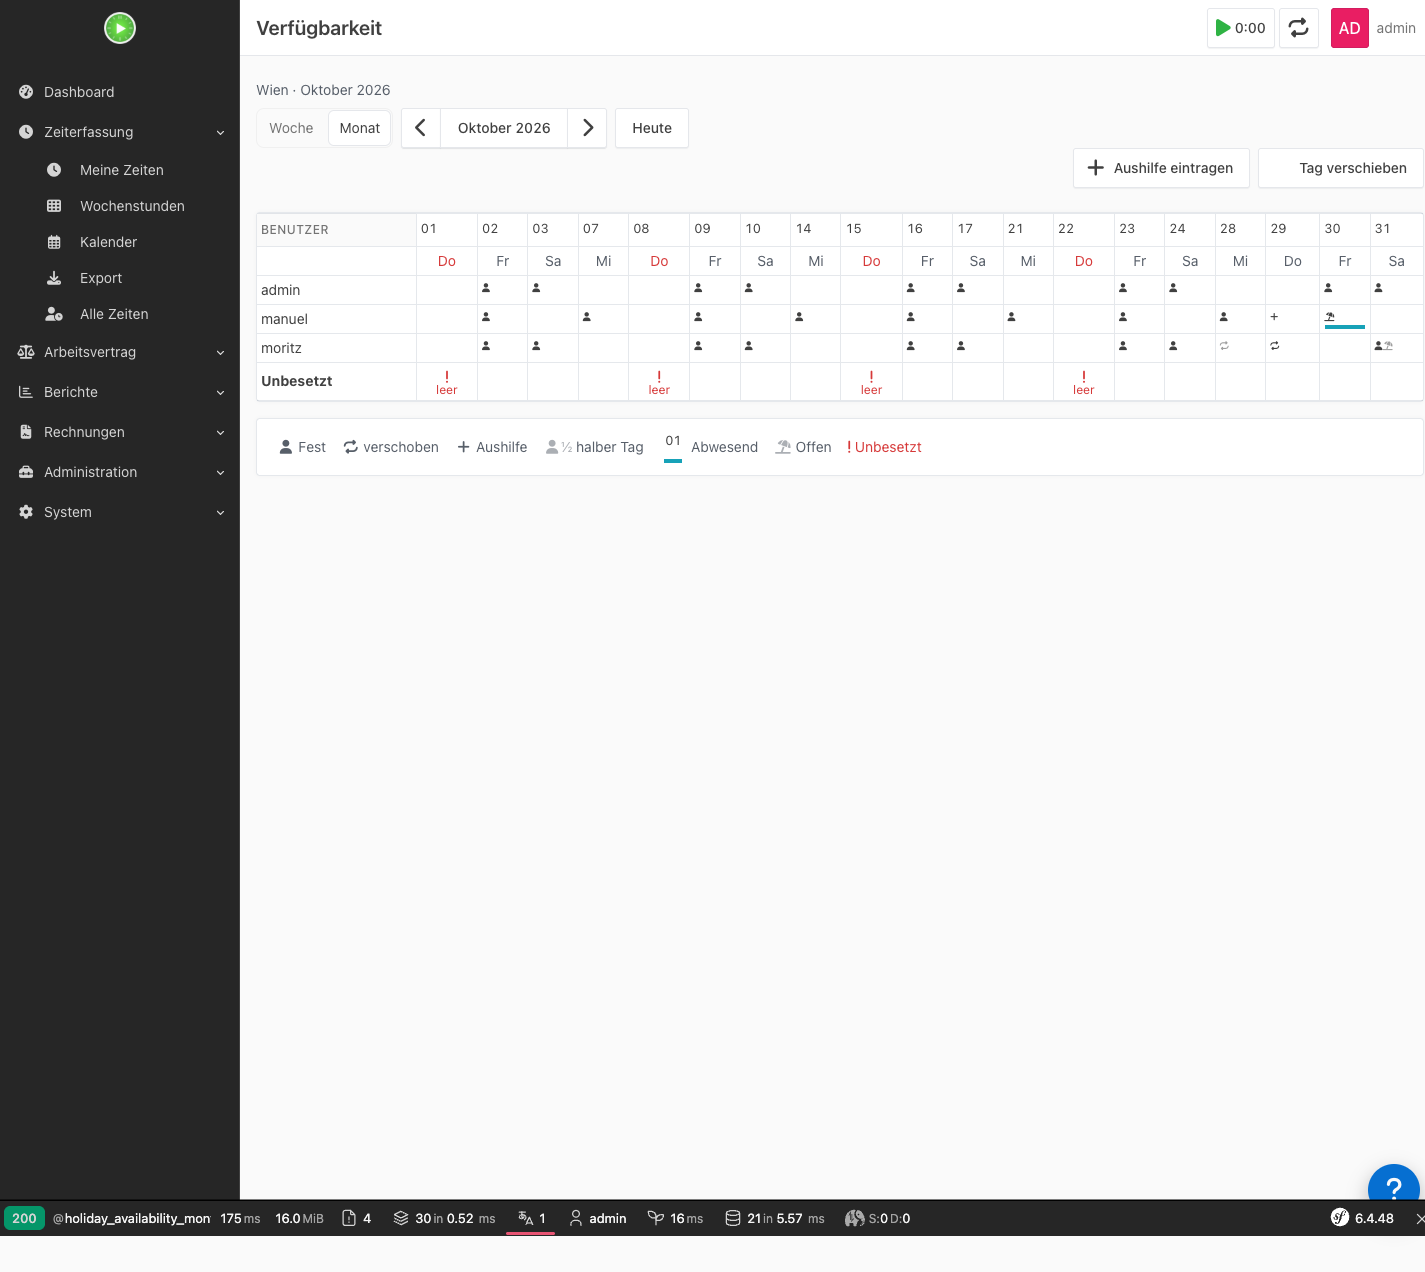
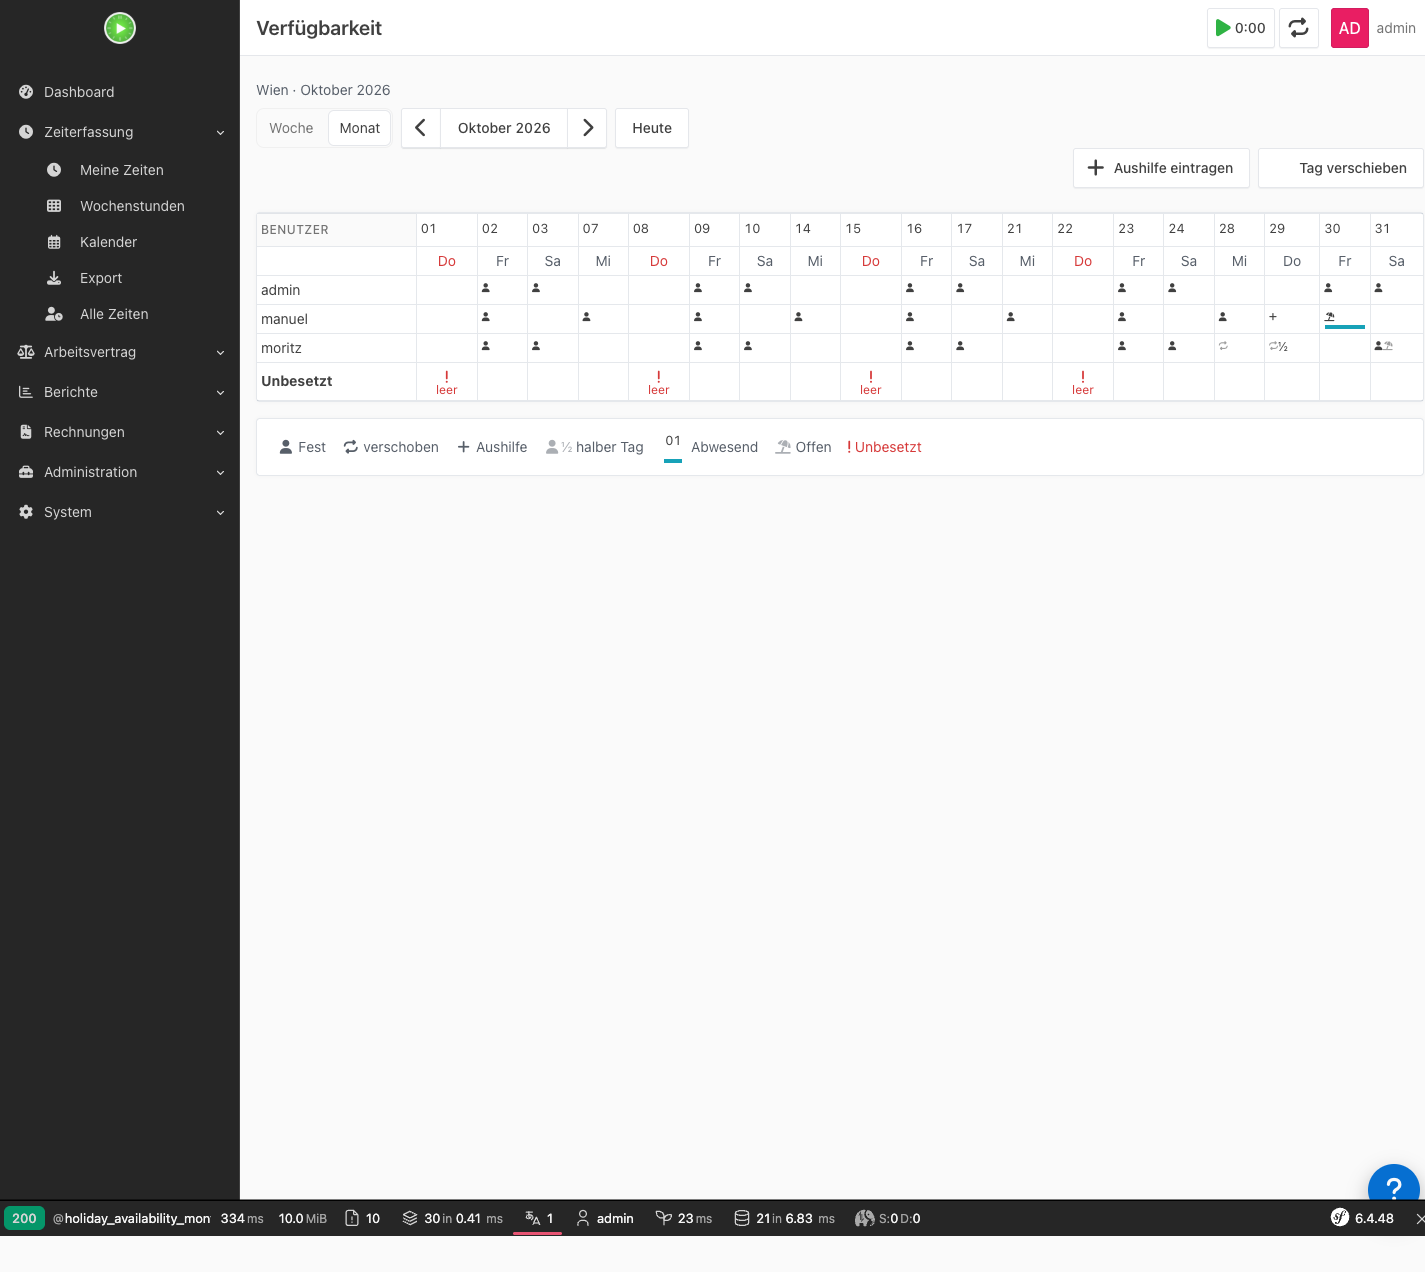
Monatszelle: halber Tag und offene Einträge
Ein halber Tag auf dem Zieltag einer Verschiebung zeigte die Zelle
als ganz anwesend. Die Zelle zeigt jetzt Symbol und ½ wie bei
festen Tagen. Offene Anträge erscheinen mit eigenem Symbol, und
bei Abwesenheit plus Verschiebung am selben Tag nennt die Zelle
beide.

Changed region(s): [[0.1544, 0.9505, 0.6484, 0.9811], [0.8646, 0.184, 0.8954, 0.2146], [0.7102, 0.184, 0.7411, 0.2146]]

diff --git a/Controller/AvailabilityController.php b/Controller/AvailabilityController.php
@@ -202,7 +202,7 @@ class AvailabilityController extends AbstractController
      *
      * @param User[] $users
      * @param array<string, AvailabilityDay> $openDays
-     * @return array<int, array{user: User, cells: array<string, ?array{kind: string, icon: string, label: string, pending: ?string}>}>
+     * @return array<int, array{user: User, cells: array<string, ?array{kind: string, icon: string, label: string, pending: ?string[], pending_icon?: ?string}>}>
      */
     private function memberRows(array $users, array $openDays): array
     {
@@ -222,45 +222,52 @@ class AvailabilityController extends AbstractController
     /**
      * 'pending' carries the type label of an open request on a day the person is present anyway.
      *
-     * @return array{kind: string, icon: string, label: string, pending: ?string}|null
+     * @return array{kind: string, icon: string, label: string, pending: ?string[], pending_icon?: ?string}|null
      */
     private function cell(User $user, AvailabilityDay $day): ?array
     {
         foreach ($day->absent as $item) {
             if ($item['user'] === $user) {
-                return ['kind' => self::CELL_ABSENT, 'icon' => $item['absence']->getType()->icon(), 'label' => $item['absence']->getType()->label(), 'pending' => null];
+                return ['kind' => self::CELL_ABSENT, 'icon' => $item['absence']->getType()->icon(), 'label' => $item['absence']->getType()->label(), 'pending' => null, 'pending_icon' => null];
             }
         }
-        $pending = null;
-        foreach ($day->pending as $item) {
-            if ($item['user'] === $user) {
-                $pending = isset($item['absence']) ? $item['absence']->getType()->label() : 'holiday.availability.pending_shift_cell';
-            }
-        }
-        foreach ($day->present as $entry) {
-            if ($entry->user !== $user) {
-                continue;
-            }
-            if ($entry->kind === PresenceKind::SHIFTED) {
-                return ['kind' => self::CELL_SHIFTED, 'icon' => 'repeat', 'label' => $entry->kind->label(), 'pending' => $pending];
-            }
-            if ($entry->kind === PresenceKind::EXTRA_SHIFT) {
-                return ['kind' => self::CELL_EXTRA, 'icon' => 'create', 'label' => $entry->kind->label(), 'pending' => $pending];
-            }
-
-            return $entry->halfDay
-                ? ['kind' => self::CELL_HALF, 'icon' => 'user', 'label' => 'holiday.availability.half_day', 'pending' => $pending]
-                : ['kind' => self::CELL_FIXED, 'icon' => 'user', 'label' => $entry->kind->label(), 'pending' => $pending];
-        }
+        // open items of this person (absence first); labels are translation keys
+        $open = [];
         foreach ($day->pending as $item) {
             if ($item['user'] !== $user) {
                 continue;
             }
-            if (isset($item['absence'])) {
-                return ['kind' => self::CELL_PENDING, 'icon' => $item['absence']->getType()->icon(), 'label' => $item['absence']->getType()->label(), 'pending' => null];
+            $open[isset($item['absence']) ? 'absence' : 'shift'] = isset($item['absence'])
+                ? ['label' => $item['absence']->getType()->label(), 'icon' => $item['absence']->getType()->icon()]
+                : ['label' => 'holiday.availability.pending_shift_cell', 'icon' => 'repeat'];
+        }
+        $open = array_merge(['absence' => null, 'shift' => null], $open);
+        $open = array_values(array_filter($open));
+        $pending = $open === [] ? null : array_column($open, 'label');
+        $pendingIcon = $open[0]['icon'] ?? null;
+
+        foreach ($day->present as $entry) {
+            if ($entry->user !== $user) {
+                continue;
+            }
+            $icon = match ($entry->kind) {
+                PresenceKind::SHIFTED => 'repeat',
+                PresenceKind::EXTRA_SHIFT => 'create',
+                PresenceKind::FIXED => 'user',
+            };
+            $kind = match ($entry->kind) {
+                PresenceKind::SHIFTED => self::CELL_SHIFTED,
+                PresenceKind::EXTRA_SHIFT => self::CELL_EXTRA,
+                PresenceKind::FIXED => self::CELL_FIXED,
+            };
+            if ($entry->halfDay) {
+                return ['kind' => self::CELL_HALF, 'icon' => $icon, 'label' => 'holiday.availability.half_day', 'pending' => $pending, 'pending_icon' => $pendingIcon];
             }
 
-            return ['kind' => self::CELL_PENDING, 'icon' => 'repeat', 'label' => 'holiday.availability.pending_shift_cell', 'pending' => null];
+            return ['kind' => $kind, 'icon' => $icon, 'label' => $entry->kind->label(), 'pending' => $pending, 'pending_icon' => $pendingIcon];
+        }
+        if ($open !== []) {
+            return ['kind' => self::CELL_PENDING, 'icon' => $pendingIcon, 'label' => $open[0]['label'], 'pending' => $pending, 'pending_icon' => null];
         }
 
         return null;

diff --git a/Tests/Service/AvailabilityCalculatorTest.php b/Tests/Service/AvailabilityCalculatorTest.php
@@ -12,6 +12,7 @@ use KimaiPlugin\HolidayBundle\Entity\Location;
 use KimaiPlugin\HolidayBundle\Entity\PublicHoliday;
 use KimaiPlugin\HolidayBundle\Entity\PublicHolidayGroup;
 use KimaiPlugin\HolidayBundle\Entity\WorkdayShift;
+use KimaiPlugin\HolidayBundle\Enum\AbsenceStatus;
 use KimaiPlugin\HolidayBundle\Enum\PresenceKind;
 use KimaiPlugin\HolidayBundle\Repository\AbsenceRepository;
 use KimaiPlugin\HolidayBundle\Repository\ExtraShiftRepository;
@@ -92,6 +93,17 @@ final class AvailabilityCalculatorTest extends TestCase
         self::assertSame([], $days['2026-10-29']->pending);
     }
 
+    public function testHalfDayAbsenceOnShiftedTargetStaysShifted(): void
+    {
+        $this->useShifts([WorkdayShiftBuilder::approved($this->moritz, '2026-10-30', '2026-10-29')]);
+        $half = AbsenceBuilder::vacation($this->moritz, '2026-10-29', '2026-10-29')->setHalfDay(true);
+
+        $entry = $this->forWeek([$half])['2026-10-29']->present[1];
+
+        self::assertSame(PresenceKind::SHIFTED, $entry->kind);
+        self::assertTrue($entry->halfDay);
+    }
+
     public function testRequestedShiftIsPendingOnBothDays(): void
     {
         $shift = WorkdayShiftBuilder::requested($this->moritz, '2026-10-30', '2026-10-29');
@@ -128,7 +140,7 @@ final class AvailabilityCalculatorTest extends TestCase
         $this->workdayShifts = $shifts;
         $repo = $this->createStub(WorkdayShiftRepository::class);
         $repo->method('findApprovedForUserBetween')->willReturnCallback(
-            static fn ($user) => array_values(array_filter($shifts, static fn (WorkdayShift $s): bool => $s->getUser() === $user && $s->getStatus() === \KimaiPlugin\HolidayBundle\Enum\AbsenceStatus::APPROVED))
+            static fn ($user) => array_values(array_filter($shifts, static fn (WorkdayShift $s): bool => $s->getUser() === $user && $s->getStatus() === AbsenceStatus::APPROVED))
         );
         $this->overrides = new WorkdayShiftOverrides($repo);
     }
